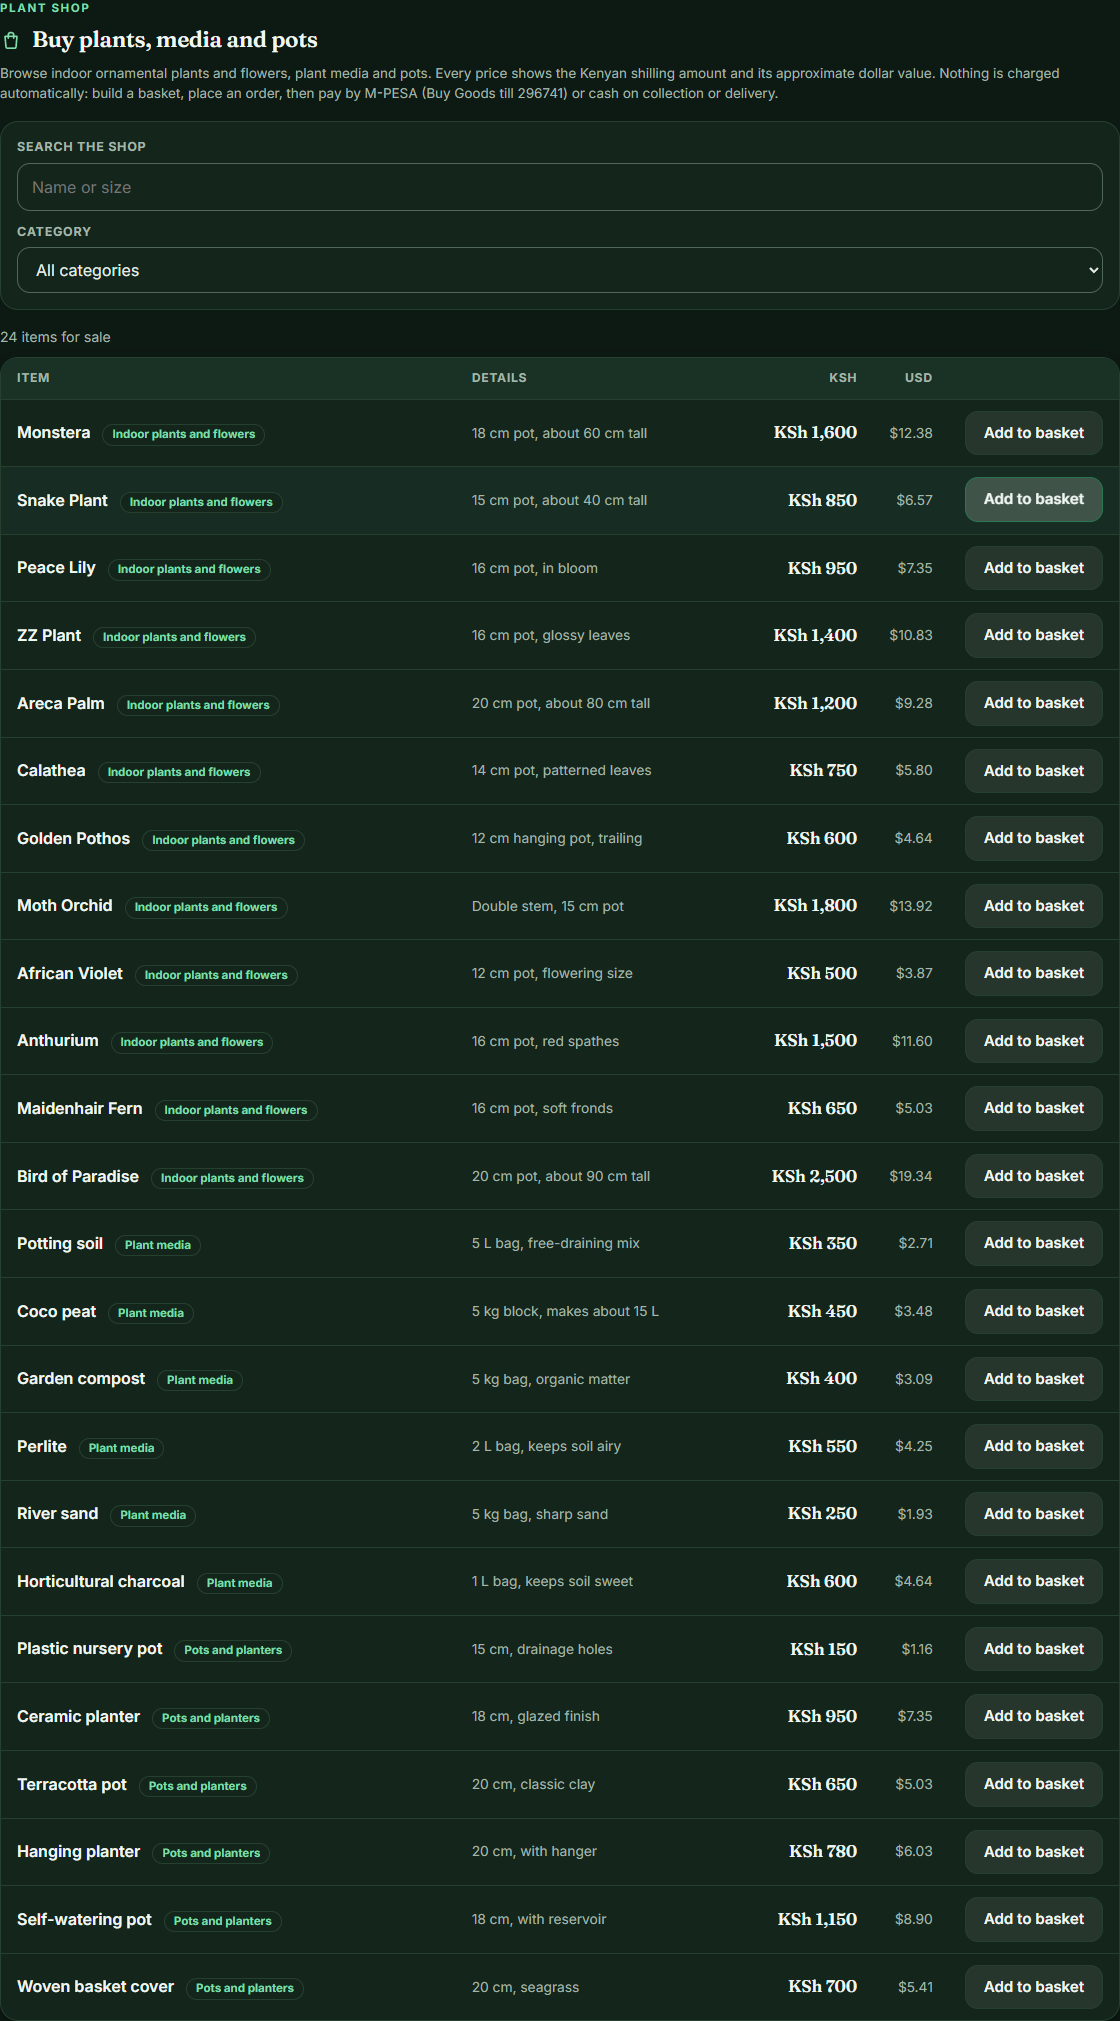
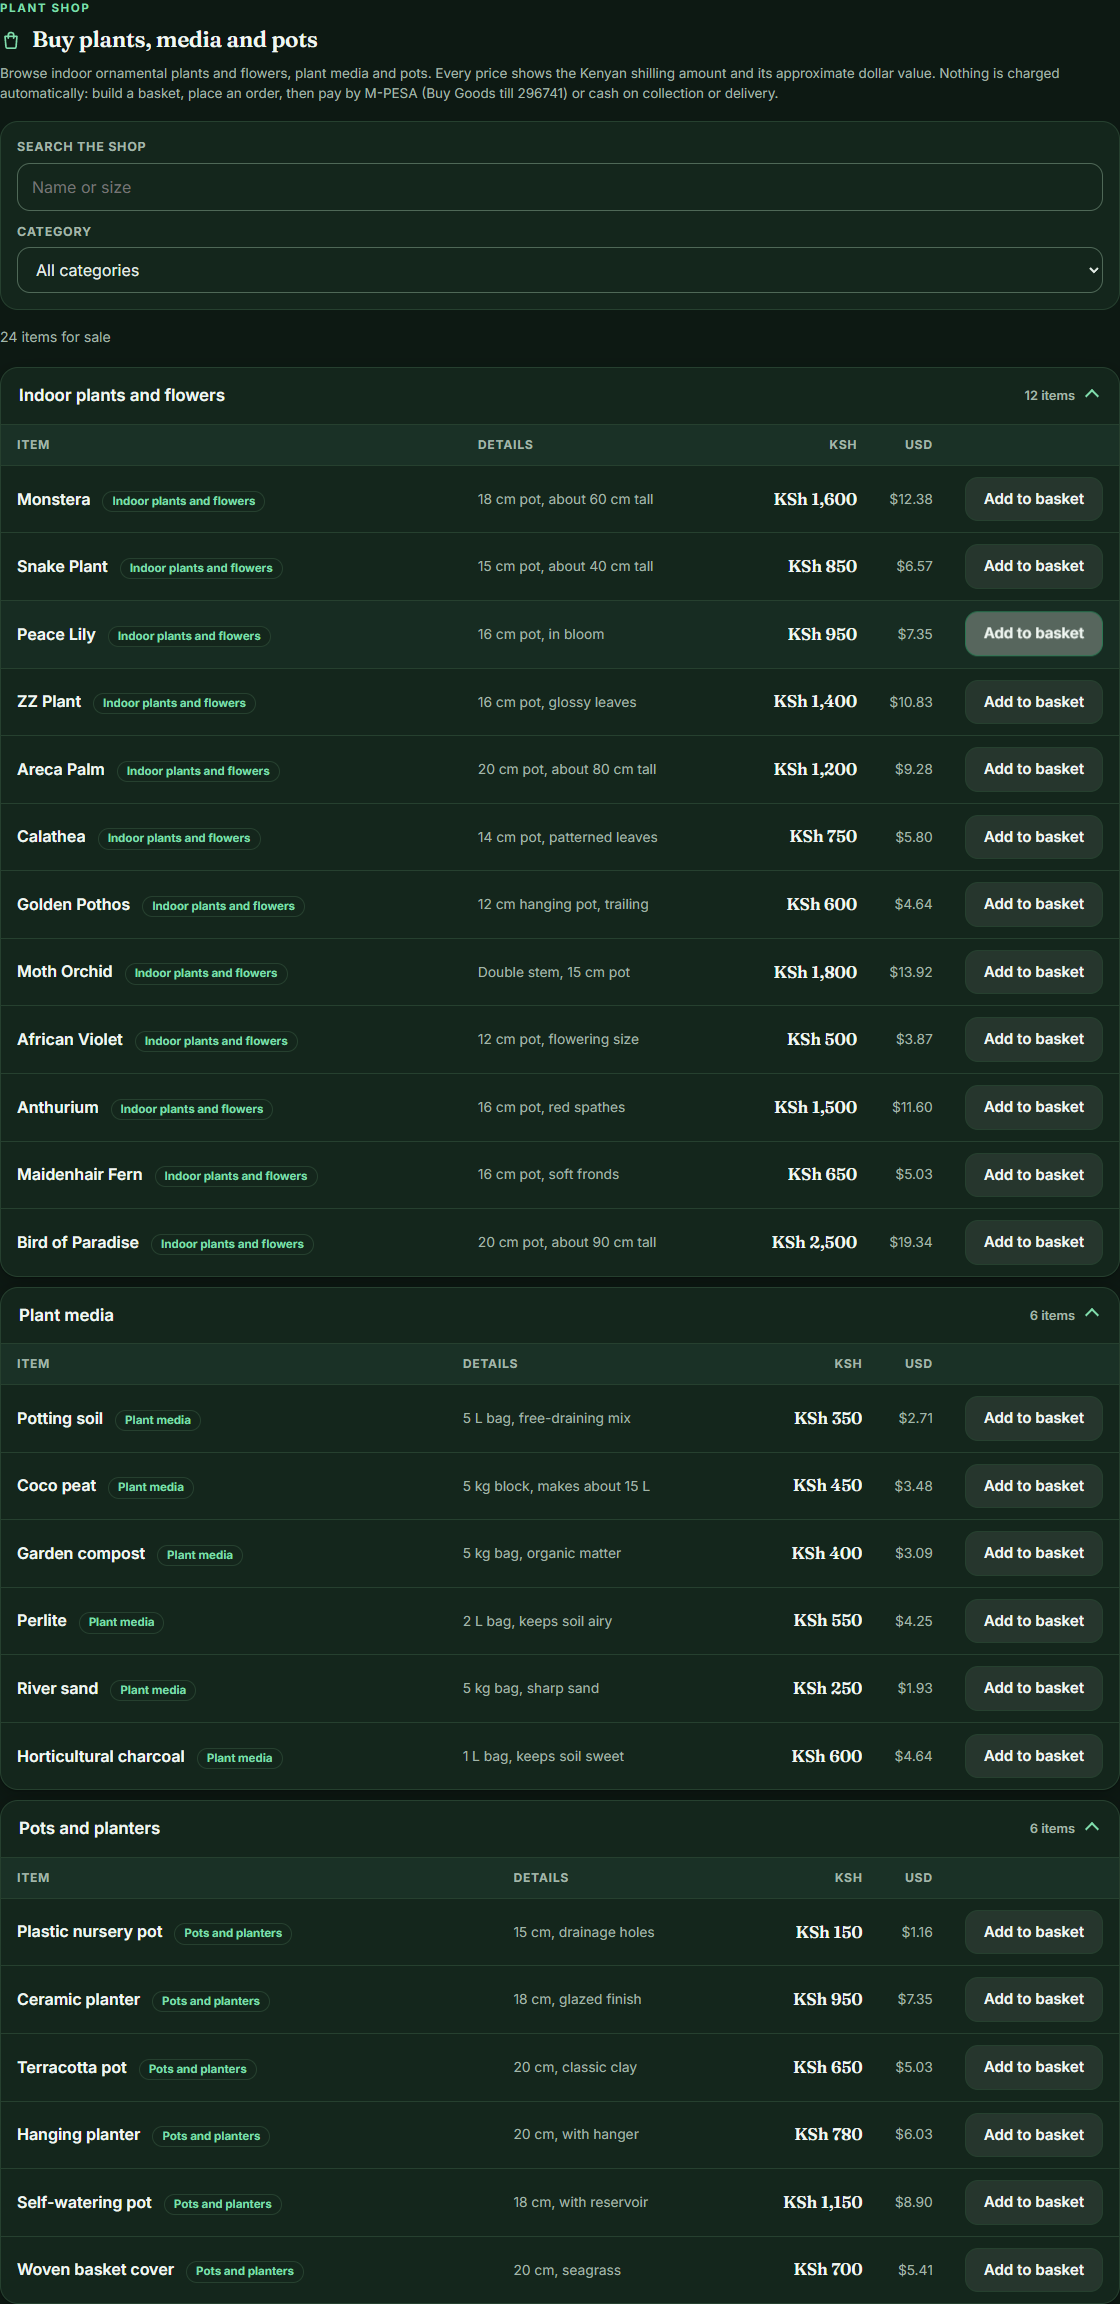
Group shop items into collapsible category dropdowns

diff --git a/src/PlantShop.jsx b/src/PlantShop.jsx
@@ -1,4 +1,4 @@
-import { useMemo, useState } from 'react'
+import { useEffect, useMemo, useState } from 'react'
 import { BagIcon } from './icons.jsx'
 import { MPESA, SHOP_CATEGORIES, SHOP_ITEMS, formatKsh, formatUsd, usdFromKsh } from './shopItems.js'
 
@@ -13,6 +13,7 @@ export default function PlantShop() {
   const [category, setCategory] = useState(ALL)
   const [basket, setBasket] = useState({})
   const [order, setOrder] = useState('')
+  const [openGroups, setOpenGroups] = useState(() => new Set())
 
   const filtering = query.trim() !== '' || category !== ALL
 
@@ -25,6 +26,18 @@ export default function PlantShop() {
     })
   }, [query, category])
 
+  // While a filter is active, open every group that still has matches so the results are visible.
+  useEffect(() => {
+    if (!filtering) return
+    setOpenGroups((prev) => {
+      const next = new Set(prev)
+      for (const { id } of SHOP_CATEGORIES) {
+        if (items.some((item) => item.category === id)) next.add(id)
+      }
+      return next
+    })
+  }, [filtering, items])
+
   const lines = SHOP_ITEMS
     .filter((item) => basket[item.id] > 0)
     .map((item) => ({ ...item, qty: basket[item.id] }))
@@ -35,6 +48,15 @@ export default function PlantShop() {
   function clearFilters() {
     setQuery('')
     setCategory(ALL)
+  }
+
+  function toggleGroup(id) {
+    setOpenGroups((prev) => {
+      const next = new Set(prev)
+      if (next.has(id)) next.delete(id)
+      else next.add(id)
+      return next
+    })
   }
 
   function addItem(id) {
@@ -146,34 +168,50 @@ export default function PlantShop() {
           <button type="button" className="link" onClick={clearFilters}>Clear filters</button>
         </div>
       ) : (
-        <div className="shop-table-wrap">
-          <table className="shop-table" aria-label="Items for sale">
-            <thead>
-              <tr>
-                <th scope="col">Item</th>
-                <th scope="col">Details</th>
-                <th scope="col" className="num">KSh</th>
-                <th scope="col" className="num">USD</th>
-                <th scope="col" className="num"><span className="sr-only">Add to basket</span></th>
-              </tr>
-            </thead>
-            <tbody>
-              {items.map((item) => (
-                <tr key={item.id}>
-                  <th scope="row" className="shop-item">
-                    {item.name} <span className="kind">{categoryLabel(item.category)}</span>
-                  </th>
-                  <td className="shop-detail">{item.detail}</td>
-                  <td className="num shop-ksh">{formatKsh(item.priceKsh)}</td>
-                  <td className="num shop-usd">{formatUsd(usdFromKsh(item.priceKsh))}</td>
-                  <td className="num shop-action">
-                    <button type="button" className="secondary" onClick={() => addItem(item.id)}
-                      aria-label={`Add ${item.name} to basket`}>Add to basket</button>
-                  </td>
-                </tr>
-              ))}
-            </tbody>
-          </table>
+        <div className="shop-groups">
+          {SHOP_CATEGORIES.map(({ id, label }) => {
+            const groupItems = items.filter((item) => item.category === id)
+            if (groupItems.length === 0) return null
+            return (
+              <details key={id} className="shop-group" open={openGroups.has(id)}>
+                <summary onClick={() => toggleGroup(id)}>
+                  <span className="shop-group-title">{label}</span>
+                  <span className="shop-group-count">
+                    {groupItems.length} {groupItems.length === 1 ? 'item' : 'items'}
+                  </span>
+                </summary>
+                <div className="shop-table-wrap">
+                  <table className="shop-table" aria-label={`${label} for sale`}>
+                    <thead>
+                      <tr>
+                        <th scope="col">Item</th>
+                        <th scope="col">Details</th>
+                        <th scope="col" className="num">KSh</th>
+                        <th scope="col" className="num">USD</th>
+                        <th scope="col" className="num"><span className="sr-only">Add to basket</span></th>
+                      </tr>
+                    </thead>
+                    <tbody>
+                      {groupItems.map((item) => (
+                        <tr key={item.id}>
+                          <th scope="row" className="shop-item">
+                            {item.name} <span className="kind">{categoryLabel(item.category)}</span>
+                          </th>
+                          <td className="shop-detail">{item.detail}</td>
+                          <td className="num shop-ksh">{formatKsh(item.priceKsh)}</td>
+                          <td className="num shop-usd">{formatUsd(usdFromKsh(item.priceKsh))}</td>
+                          <td className="num shop-action">
+                            <button type="button" className="secondary" onClick={() => addItem(item.id)}
+                              aria-label={`Add ${item.name} to basket`}>Add to basket</button>
+                          </td>
+                        </tr>
+                      ))}
+                    </tbody>
+                  </table>
+                </div>
+              </details>
+            )
+          })}
         </div>
       )}
     </section>

diff --git a/src/PlantShop.test.jsx b/src/PlantShop.test.jsx
@@ -5,12 +5,20 @@ import PlantShop from './PlantShop.jsx'
 import App from './App.jsx'
 import { MPESA, SHOP_CATEGORIES, SHOP_ITEMS, formatKsh, formatUsd, usdFromKsh } from './shopItems.js'
 
-function shopGrid() {
-  return screen.getByRole('table', { name: 'Items for sale' })
+function groups() {
+  return [...document.querySelectorAll('.shop-group')]
+}
+
+function groupFor(title) {
+  return groups().find((group) => group.querySelector('.shop-group-title')?.textContent === title)
+}
+
+function rowHeaders() {
+  return screen.getAllByRole('rowheader')
 }
 
 function rowFor(name) {
-  return within(shopGrid()).getByText(name).closest('tr')
+  return within(document.querySelector('.shop-groups')).getByText(name).closest('tr')
 }
 
 function item(name) {
@@ -20,7 +28,7 @@ function item(name) {
 describe('PlantShop', () => {
   it('lists every item with its name and price in KSh and dollars', () => {
     render(<PlantShop />)
-    expect(within(shopGrid()).getAllByRole('rowheader')).toHaveLength(SHOP_ITEMS.length)
+    expect(rowHeaders()).toHaveLength(SHOP_ITEMS.length)
     expect(screen.getByText(`${SHOP_ITEMS.length} items for sale`)).toBeInTheDocument()
     for (const entry of SHOP_ITEMS) {
       const row = rowFor(entry.name)
@@ -31,13 +39,42 @@ describe('PlantShop', () => {
     }
   })
 
+  it('groups the items into three collapsible category dropdowns', () => {
+    render(<PlantShop />)
+    expect(groups()).toHaveLength(SHOP_CATEGORIES.length)
+    for (const group of groups()) expect(group).not.toHaveAttribute('open')
+    for (const { id, label } of SHOP_CATEGORIES) {
+      const count = SHOP_ITEMS.filter((entry) => entry.category === id).length
+      const group = groupFor(label)
+      expect(group).toBeInTheDocument()
+      expect(group.querySelector('.shop-group-count').textContent)
+        .toContain(`${count} ${count === 1 ? 'item' : 'items'}`)
+      expect(within(group).getAllByRole('rowheader')).toHaveLength(count)
+      expect(screen.getByRole('table', { name: `${label} for sale` })).toBeInTheDocument()
+    }
+  })
+
+  it('opens and closes a category dropdown', async () => {
+    const user = userEvent.setup({ applyAccept: false })
+    render(<PlantShop />)
+    const pots = groupFor('Pots and planters')
+    expect(pots).not.toHaveAttribute('open')
+    await user.click(pots.querySelector('summary'))
+    expect(pots).toHaveAttribute('open')
+    expect(within(pots).getByRole('rowheader', { name: /Terracotta pot/ })).toBeInTheDocument()
+    await user.click(pots.querySelector('summary'))
+    expect(pots).not.toHaveAttribute('open')
+  })
+
   it('filters by category', async () => {
     const user = userEvent.setup({ applyAccept: false })
     render(<PlantShop />)
     await user.selectOptions(screen.getByLabelText('Category'), 'pot')
     const pots = SHOP_ITEMS.filter((entry) => entry.category === 'pot')
-    expect(within(shopGrid()).getAllByRole('rowheader')).toHaveLength(pots.length)
+    expect(rowHeaders()).toHaveLength(pots.length)
     expect(screen.getByText(`Showing ${pots.length} of ${SHOP_ITEMS.length} items`)).toBeInTheDocument()
+    expect(groups()).toHaveLength(1)
+    expect(groups()[0]).toHaveAttribute('open')
     expect(screen.queryByText('Moth Orchid')).not.toBeInTheDocument()
   })
 
@@ -61,7 +98,7 @@ describe('PlantShop', () => {
     const empty = screen.getByText('No items match your search.')
     await user.click(within(empty).getByRole('button', { name: 'Clear filters' }))
     expect(screen.getByText(`${SHOP_ITEMS.length} items for sale`)).toBeInTheDocument()
-    expect(within(shopGrid()).getAllByRole('rowheader')).toHaveLength(SHOP_ITEMS.length)
+    expect(rowHeaders()).toHaveLength(SHOP_ITEMS.length)
   })
 
   it('adds items to the basket with totals in both currencies', async () => {

diff --git a/WORKSHOP-CHECKS.md b/WORKSHOP-CHECKS.md
@@ -67,9 +67,9 @@ The tests use a fake service, so checks 29 to 31 need a real API key. A free Goo
 
 | # | Check | Steps | Expected | Automated test | Result |
 |---|-------|-------|----------|----------------|--------|
-| 35 | Browse the shop | Open **Shop**. Search by name or size, then filter by category and clear. | Every item shows its name and its price in KSh and dollars; the count updates; no matches shows a message and a clear button. | PlantShop.test.jsx | |
+| 35 | Browse the shop | Open **Shop**. Search by name or size, then filter by category and clear. | Items are grouped into three collapsible category dropdowns (indoor plants, plant media, pots) that show item counts and open while a filter is active; every row shows its name and its price in KSh and dollars; the count updates; no matches shows a message and a clear button. | PlantShop.test.jsx | |
 | 36 | Basket and order | Add two items, change a quantity with +, remove one, then select **Place order**. | The basket shows per-item and total prices in both currencies. Placing an order confirms the amount in KSh and dollars and empties the basket. | PlantShop.test.jsx | |
-| 37 | Shop on a phone | Resize the window to phone width. | The table becomes a stacked list — each item shows its name, category, details, both prices and its button — and stays readable. | none | **manual** |
+| 37 | Shop on a phone | Resize the window to phone width. | Each open category table becomes a stacked list — every item shows its name, category, details, both prices and its button — and stays readable. | none | **manual** |
 | 38 | M-PESA payment | Add an item and check the basket, then place the order. | The intro and the basket show **M-PESA** with a Buy Goods till number; the confirmation repeats the till number to pay to and still offers cash on collection or delivery. | PlantShop.test.jsx | |
 
 ## Main workflow run
